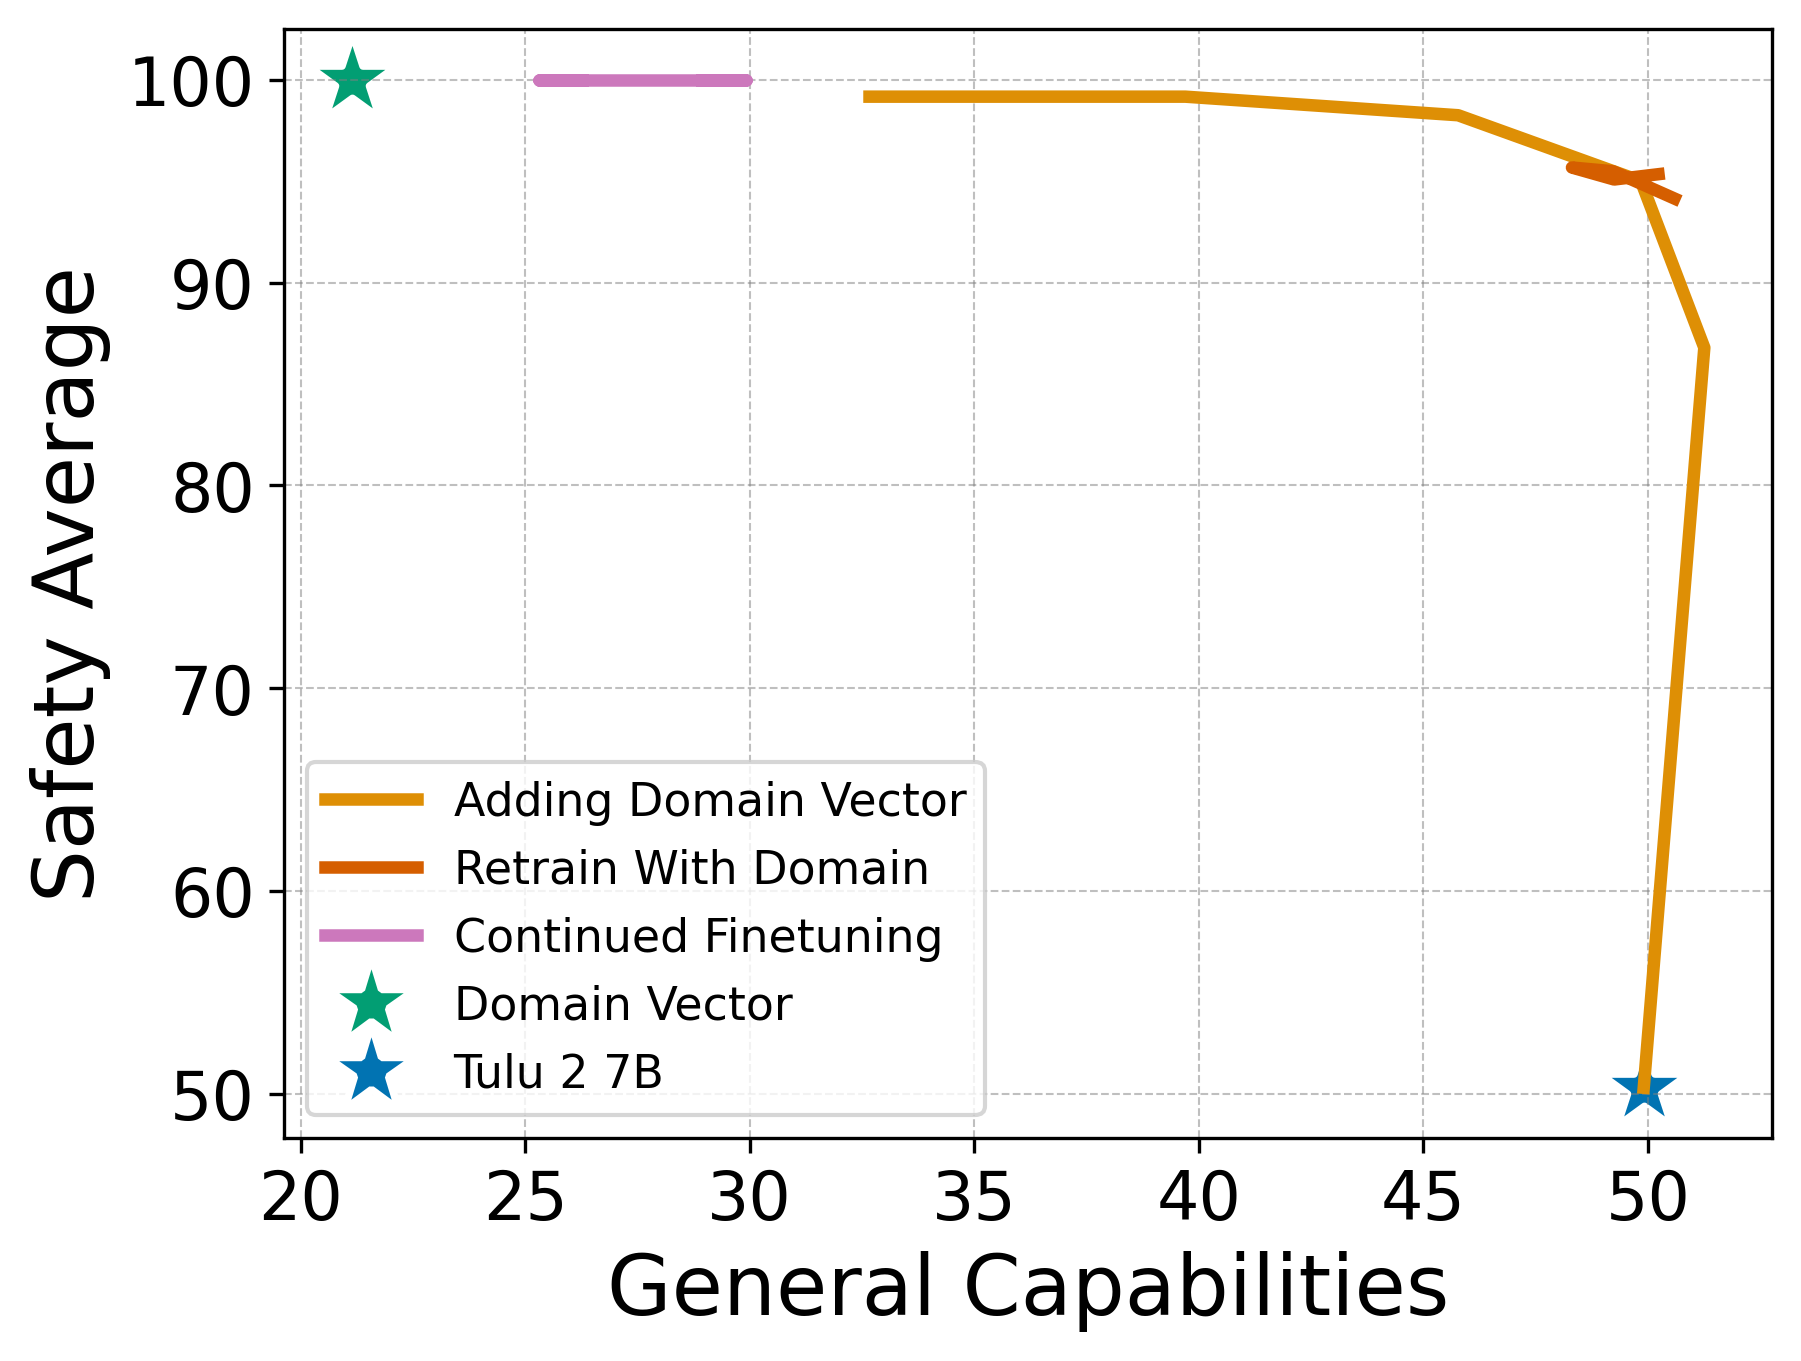
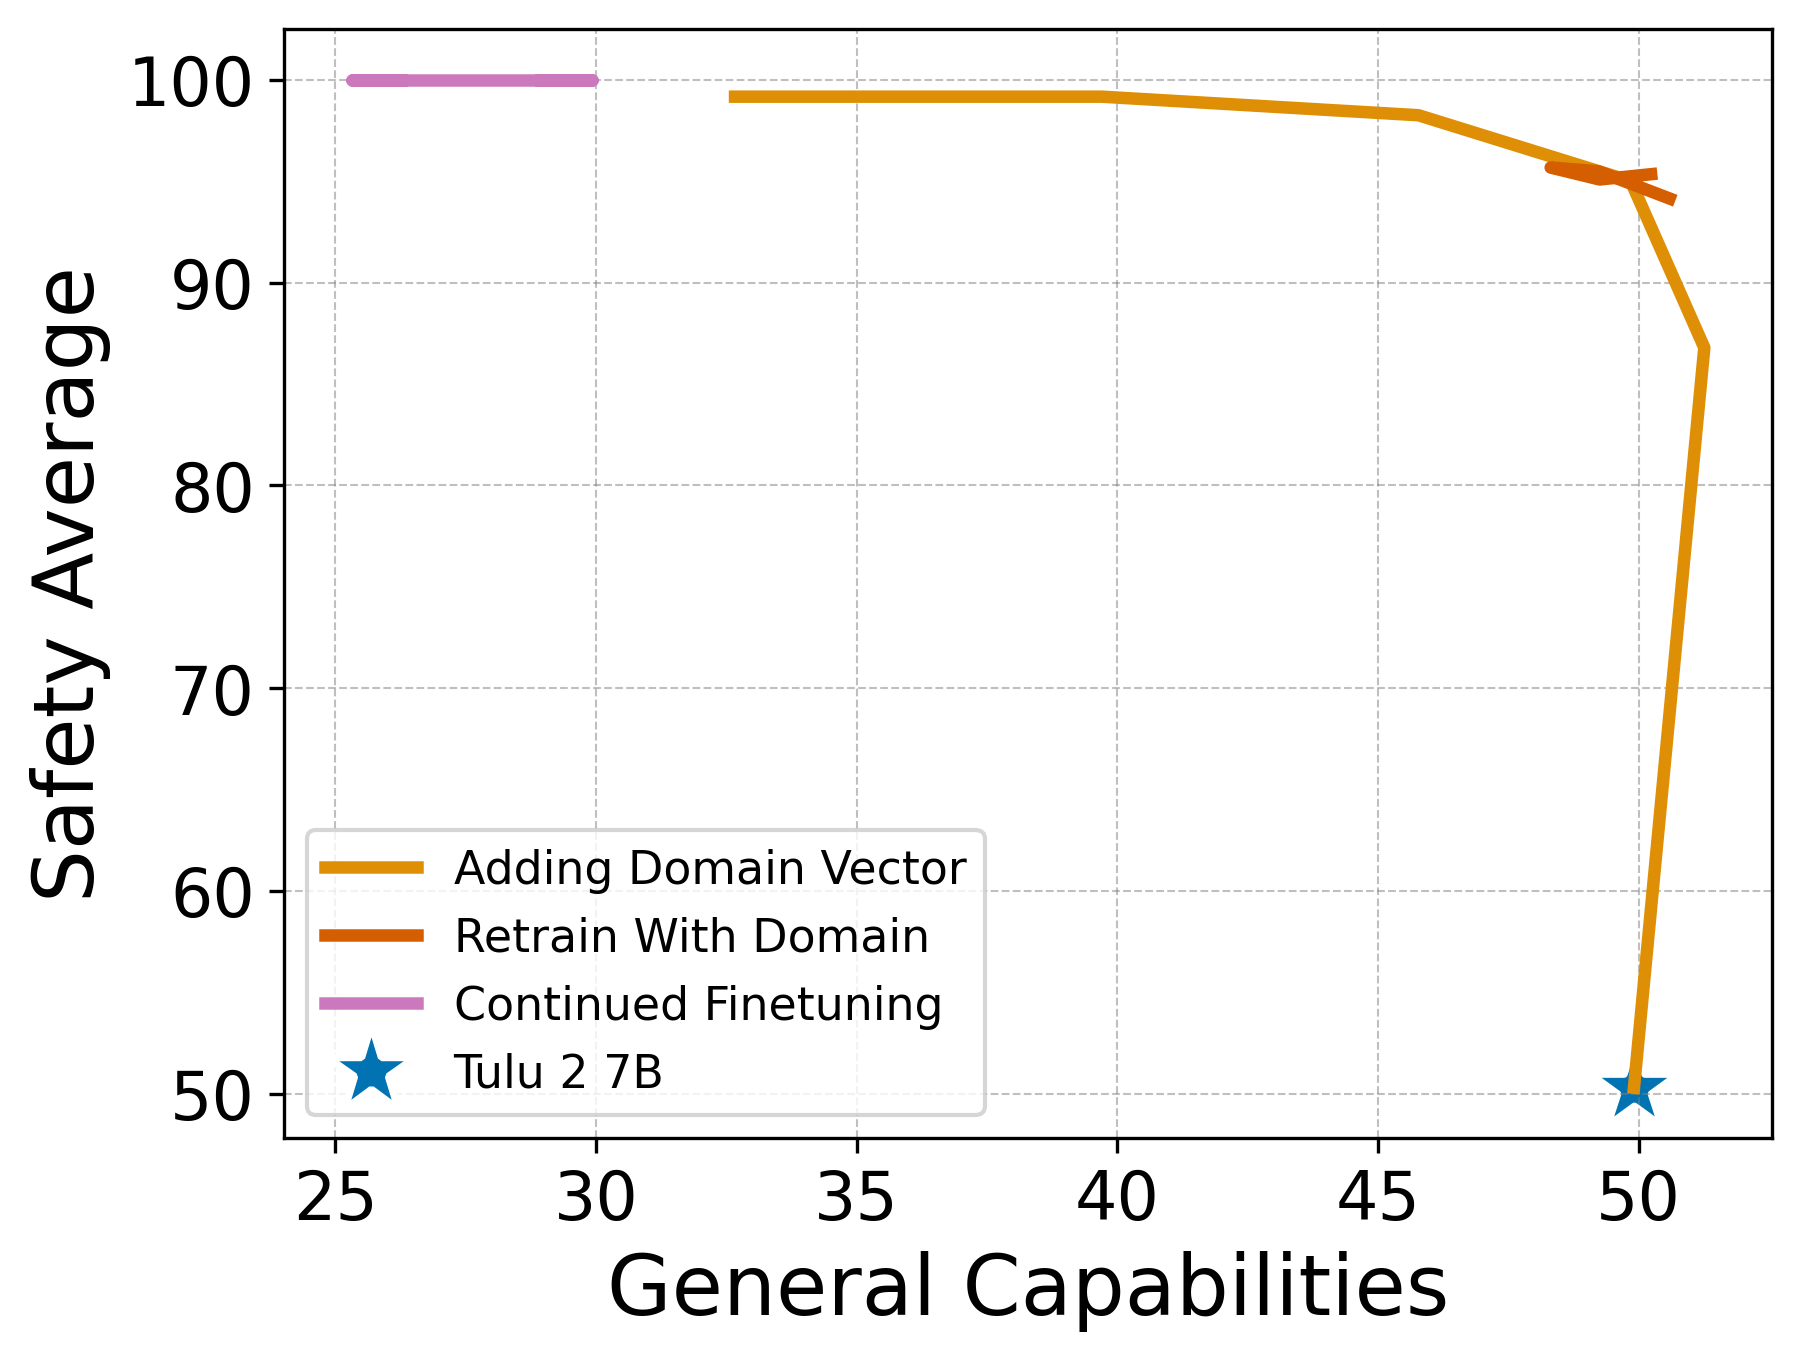
.

diff --git a/results/consistent_mix/make-plots.py b/results/consistent_mix/make-plots.py
@@ -437,7 +437,7 @@ def make_plots():
         "coding_80_interp": df[(df["Combo"] == "Llama 2 Coding 80% - linear_weighted") & (~df["tulu_model"].str.contains("coding"))],
         "coding_100_interp": df[(df["Combo"] == "Llama 2 Coding 100% - linear_weighted") & (~df["tulu_model"].str.contains("coding"))],
 
-        "coding_100_llama_ta_dare": df[df["Combo"] == "Llama 2 Cooding 100% - dare_task_arithmetic"],
+        "coding_100_llama_ta_dare": df[df["Combo"] == "Llama 2 Coding 100% - dare_task_arithmetic"],
         "coding_100_llama_ta_ties": df[df["Combo"] == "Llama 2 Coding 100% - ties_task_arithmetic"],
 
         # Tulu w/ Coding
@@ -703,15 +703,15 @@ def make_plots():
                     marker=marker,
                     palette=[sns.color_palette("colorblind")[3]],
                 )
-            sns.scatterplot(
-                data=dataframes["llama_tulu_none_safety_100"],
-                x=x,
-                y=y,
-                hue="Label",
-                s=point_size,
-                marker=marker,
-                palette=[sns.color_palette("colorblind")[2]],
-            )
+            # sns.scatterplot(
+            #     data=dataframes["llama_tulu_none_safety_100"],
+            #     x=x,
+            #     y=y,
+            #     hue="Label",
+            #     s=point_size,
+            #     marker=marker,
+            #     palette=[sns.color_palette("colorblind")[2]],
+            # )
             sns.scatterplot(
                 data=dataframes["llama_tulu_all"],
                 x=x,
@@ -991,13 +991,59 @@ def make_plots():
 
         fig, axes = plt.subplots(
             1, 
-            2, 
-            figsize=(12, 5)
+            3, 
+            figsize=(18, 5)
         )
 
-        # # science
+        # science
+        sns.lineplot(
+            data=dataframes[f"science_2500_llama_ta"],
+            x="General Capabilities",
+            y="Science Average",
+            hue="Label",
+            sort=False,
+            # marker='X',
+            linewidth=line_width,
+            markersize=markersize,
+            palette=[sns.color_palette("colorblind")[1]],
+            ax=axes[0],
+        )
+        sns.lineplot(
+            data=dataframes["science_retrain_ablations"],
+            x="General Capabilities",
+            y="Science Average",
+            hue="Label",
+            sort=False,
+            # marker='X',
+            linewidth=line_width,
+            markersize=markersize,
+            palette=[sns.color_palette("colorblind")[3]],
+            ax=axes[0],
+        )
+        sns.lineplot(
+            data=dataframes["science_cft_ablations"],
+            x="General Capabilities",
+            y="Science Average",
+            hue="Label",
+            sort=False,
+            # marker='X',
+            linewidth=line_width,
+            markersize=markersize,
+            palette=[sns.color_palette("colorblind")[4]],
+            ax=axes[0],
+        )
+        sns.scatterplot(
+            data=dataframes["llama_tulu_all"],
+            x="General Capabilities",
+            y="Science Average",
+            hue="Label",
+            s=point_size,
+            marker=marker,
+            palette=[sns.color_palette("colorblind")[0]],
+            ax=axes[0]
+        )
         # sns.lineplot(
-        #     data=dataframes[f"science_2500_llama_ta"],
+        #     data=dataframes["science_cft_match_ablations"],
         #     x="General Capabilities",
         #     y="Science Average",
         #     hue="Label",
@@ -1005,61 +1051,15 @@ def make_plots():
         #     # marker='X',
         #     linewidth=line_width,
         #     markersize=markersize,
-        #     palette=[sns.color_palette("colorblind")[1]],
+        #     palette=[sns.color_palette("colorblind")[2]],
         #     ax=axes[0],
         # )
-        # sns.lineplot(
-        #     data=dataframes["science_retrain_ablations"],
-        #     x="General Capabilities",
-        #     y="Science Average",
-        #     hue="Label",
-        #     sort=False,
-        #     # marker='X',
-        #     linewidth=line_width,
-        #     markersize=markersize,
-        #     palette=[sns.color_palette("colorblind")[3]],
-        #     ax=axes[0],
-        # )
-        # sns.lineplot(
-        #     data=dataframes["science_cft_ablations"],
-        #     x="General Capabilities",
-        #     y="Science Average",
-        #     hue="Label",
-        #     sort=False,
-        #     # marker='X',
-        #     linewidth=line_width,
-        #     markersize=markersize,
-        #     palette=[sns.color_palette("colorblind")[4]],
-        #     ax=axes[0],
-        # )
-        # sns.scatterplot(
-        #     data=dataframes["llama_tulu_all"],
-        #     x="General Capabilities",
-        #     y="Science Average",
-        #     hue="Label",
-        #     s=point_size,
-        #     marker=marker,
-        #     palette=[sns.color_palette("colorblind")[0]],
-        #     ax=axes[0]
-        # )
-        # # sns.lineplot(
-        # #     data=dataframes["science_cft_match_ablations"],
-        # #     x="General Capabilities",
-        # #     y="Science Average",
-        # #     hue="Label",
-        # #     sort=False,
-        # #     # marker='X',
-        # #     linewidth=line_width,
-        # #     markersize=markersize,
-        # #     palette=[sns.color_palette("colorblind")[2]],
-        # #     ax=axes[0],
-        # # )
 
-        # axes[0].set_title('Science', fontsize=20)
-        # axes[0].set(xlabel=None, ylabel=None)
-        # axes[0].grid(True, linestyle='--', linewidth=0.5, color='gray', alpha=0.5)
-        # axes[0].legend(title='')
-        # axes[0].tick_params(axis='both', which='major', labelsize=ticksize)
+        axes[0].set_title('Science', fontsize=20)
+        axes[0].set(xlabel=None, ylabel=None)
+        axes[0].grid(True, linestyle='--', linewidth=0.5, color='gray', alpha=0.5)
+        axes[0].legend(title='')
+        axes[0].tick_params(axis='both', which='major', labelsize=ticksize)
 
         # safety
         sns.lineplot(
@@ -1072,7 +1072,7 @@ def make_plots():
             linewidth=line_width,
             markersize=markersize,
             palette=[sns.color_palette("colorblind")[1]],
-            ax=axes[0],
+            ax=axes[1],
         )
         sns.lineplot(
             data=dataframes["safety_retrain_ablations"],
@@ -1084,7 +1084,7 @@ def make_plots():
             linewidth=line_width,
             markersize=markersize,
             palette=[sns.color_palette("colorblind")[3]],
-            ax=axes[0],
+            ax=axes[1],
         )
         sns.lineplot(
             data=dataframes["safety_cft_ablations"],
@@ -1096,7 +1096,7 @@ def make_plots():
             linewidth=line_width,
             markersize=markersize,
             palette=[sns.color_palette("colorblind")[4]],
-            ax=axes[0],
+            ax=axes[1],
         )
         sns.scatterplot(
             data=dataframes["llama_tulu_all"],
@@ -1106,7 +1106,7 @@ def make_plots():
             s=point_size,
             marker=marker,
             palette=[sns.color_palette("colorblind")[0]],
-            ax=axes[0]
+            ax=axes[1]
         )
         # sns.lineplot(
         #     data=dataframes["safety_cft_match_ablations"],
@@ -1121,11 +1121,11 @@ def make_plots():
         #     ax=axes[0],
         # )
 
-        axes[0].set_title('Safety', fontsize=20)
-        axes[0].set(xlabel=None, ylabel=None)
-        axes[0].grid(True, linestyle='--', linewidth=0.5, color='gray', alpha=0.5)
-        axes[0].legend(title='')
-        axes[0].tick_params(axis='both', which='major', labelsize=ticksize)
+        axes[1].set_title('Safety', fontsize=20)
+        axes[1].set(xlabel=None, ylabel=None)
+        axes[1].grid(True, linestyle='--', linewidth=0.5, color='gray', alpha=0.5)
+        axes[1].legend().set_visible(False)
+        axes[1].tick_params(axis='both', which='major', labelsize=ticksize)
 
         # coding
         sns.lineplot(
@@ -1138,7 +1138,7 @@ def make_plots():
             linewidth=line_width,
             markersize=markersize,
             palette=[sns.color_palette("colorblind")[1]],
-            ax=axes[1],
+            ax=axes[2],
         )
         sns.lineplot(
             data=dataframes["coding_retrain_ablations"],
@@ -1150,7 +1150,7 @@ def make_plots():
             linewidth=line_width,
             markersize=markersize,
             palette=[sns.color_palette("colorblind")[3]],
-            ax=axes[1],
+            ax=axes[2],
         )
         sns.lineplot(
             data=dataframes["coding_cft_ablations"],
@@ -1162,7 +1162,7 @@ def make_plots():
             linewidth=line_width,
             markersize=markersize,
             palette=[sns.color_palette("colorblind")[4]],
-            ax=axes[1],
+            ax=axes[2],
         )
         sns.scatterplot(
             data=dataframes["llama_tulu_all"],
@@ -1172,7 +1172,7 @@ def make_plots():
             s=point_size,
             marker=marker,
             palette=[sns.color_palette("colorblind")[0]],
-            ax=axes[1]
+            ax=axes[2]
         )
         # sns.lineplot(
         #     data=dataframes["coding_cft_match_ablations"],
@@ -1187,11 +1187,11 @@ def make_plots():
         #     ax=axes[1],
         # )
 
-        axes[1].set_title('Coding', fontsize=20)
-        axes[1].set(xlabel=None, ylabel=None)
-        axes[1].grid(True, linestyle='--', linewidth=0.5, color='gray', alpha=0.5)
-        axes[1].legend().set_visible(False)
-        axes[1].tick_params(axis='both', which='major', labelsize=ticksize)
+        axes[2].set_title('Coding', fontsize=20)
+        axes[2].set(xlabel=None, ylabel=None)
+        axes[2].grid(True, linestyle='--', linewidth=0.5, color='gray', alpha=0.5)
+        axes[2].legend().set_visible(False)
+        axes[2].tick_params(axis='both', which='major', labelsize=ticksize)
 
         # plt.xlabel("General Capabilities",fontsize=20)
         # plt.ylabel("Domain Average",fontsize=20)
@@ -1433,16 +1433,16 @@ def make_plots():
             palette=[sns.color_palette("colorblind")[0]],
             ax=axes[0]
         )
-        sns.scatterplot(
-            data=dataframes["llama_tulu_none_science_2500"],
-            x="General Capabilities",
-            y="Science Average",
-            hue="Label",
-            s=point_size,
-            marker=marker,
-            palette=[sns.color_palette("colorblind")[2]],
-            ax=axes[0]
-        )
+        # sns.scatterplot(
+        #     data=dataframes["llama_tulu_none_science_2500"],
+        #     x="General Capabilities",
+        #     y="Science Average",
+        #     hue="Label",
+        #     s=point_size,
+        #     marker=marker,
+        #     palette=[sns.color_palette("colorblind")[2]],
+        #     ax=axes[0]
+        # )
 
         axes[0].set_title('Science', fontsize=20)
         axes[0].set(xlabel=None, ylabel=None)
@@ -1483,16 +1483,16 @@ def make_plots():
             palette=[sns.color_palette("colorblind")[0]],
             ax=axes[1]
         )
-        sns.scatterplot(
-            data=dataframes["llama_tulu_none_safety_100"],
-            x="General Capabilities",
-            y="Safety Average",
-            hue="Label",
-            s=point_size,
-            marker=marker,
-            palette=[sns.color_palette("colorblind")[2]],
-            ax=axes[1]
-        )
+        # sns.scatterplot(
+        #     data=dataframes["llama_tulu_none_safety_100"],
+        #     x="General Capabilities",
+        #     y="Safety Average",
+        #     hue="Label",
+        #     s=point_size,
+        #     marker=marker,
+        #     palette=[sns.color_palette("colorblind")[2]],
+        #     ax=axes[1]
+        # )
 
         axes[1].set_title('Safety', fontsize=20)
         axes[1].set(xlabel=None, ylabel=None)
@@ -1533,16 +1533,16 @@ def make_plots():
             palette=[sns.color_palette("colorblind")[0]],
             ax=axes[2]
         )
-        sns.scatterplot(
-            data=dataframes["llama_tulu_none_coding_100"],
-            x="General Capabilities",
-            y="Coding Average",
-            hue="Label",
-            s=point_size,
-            marker=marker,
-            palette=[sns.color_palette("colorblind")[2]],
-            ax=axes[2]
-        )
+        # sns.scatterplot(
+        #     data=dataframes["llama_tulu_none_coding_100"],
+        #     x="General Capabilities",
+        #     y="Coding Average",
+        #     hue="Label",
+        #     s=point_size,
+        #     marker=marker,
+        #     palette=[sns.color_palette("colorblind")[2]],
+        #     ax=axes[2]
+        # )
 
         axes[2].set_title('Coding', fontsize=20)
         axes[2].set(xlabel=None, ylabel=None)

diff --git a/results/consistent_mix/collect-results.py b/results/consistent_mix/collect-results.py
@@ -529,13 +529,13 @@ for dataset in [
     "science_2500",
 ]:
     row4 = data_map["llama_2_7b-tulu_all"].copy()
-    row4["model_key"] = f"dare_task_arithmetic-llama_2_7b-tulu_all_1.0-tulu_match-{dataset}_0.0"
+    row4["model_key"] = f"linear_weighted-llama_2_7b-tulu_all_1.0-tulu_match-{dataset}_0.0"
     row4["merge_method"] = "wise-ft"
     row4["tulu_model_weight"] = 1.0
     row4["domain_model_weight"] = 0.0
     row4["tulu_model"] = "tulu_all"
     row4["domain_model"] = dataset
-    data_map[f"dare_task_arithmetic-llama_2_7b-tulu_all_1.0-tulu_2_7b-tulu_match-{dataset}_0.0"] = row4
+    data_map[f"linear_weighted-llama_2_7b-tulu_all_1.0-tulu_2_7b-tulu_match-{dataset}_0.0"] = row4
 
     row5 = data_map[f"tulu_2_7b-tulu_match-{dataset}"].copy()
     row5["model_key"] = f"linear_weighted-llama_2_7b-tulu_all_0.0-tulu_2_7b-tulu_match-{dataset}_1.0"
